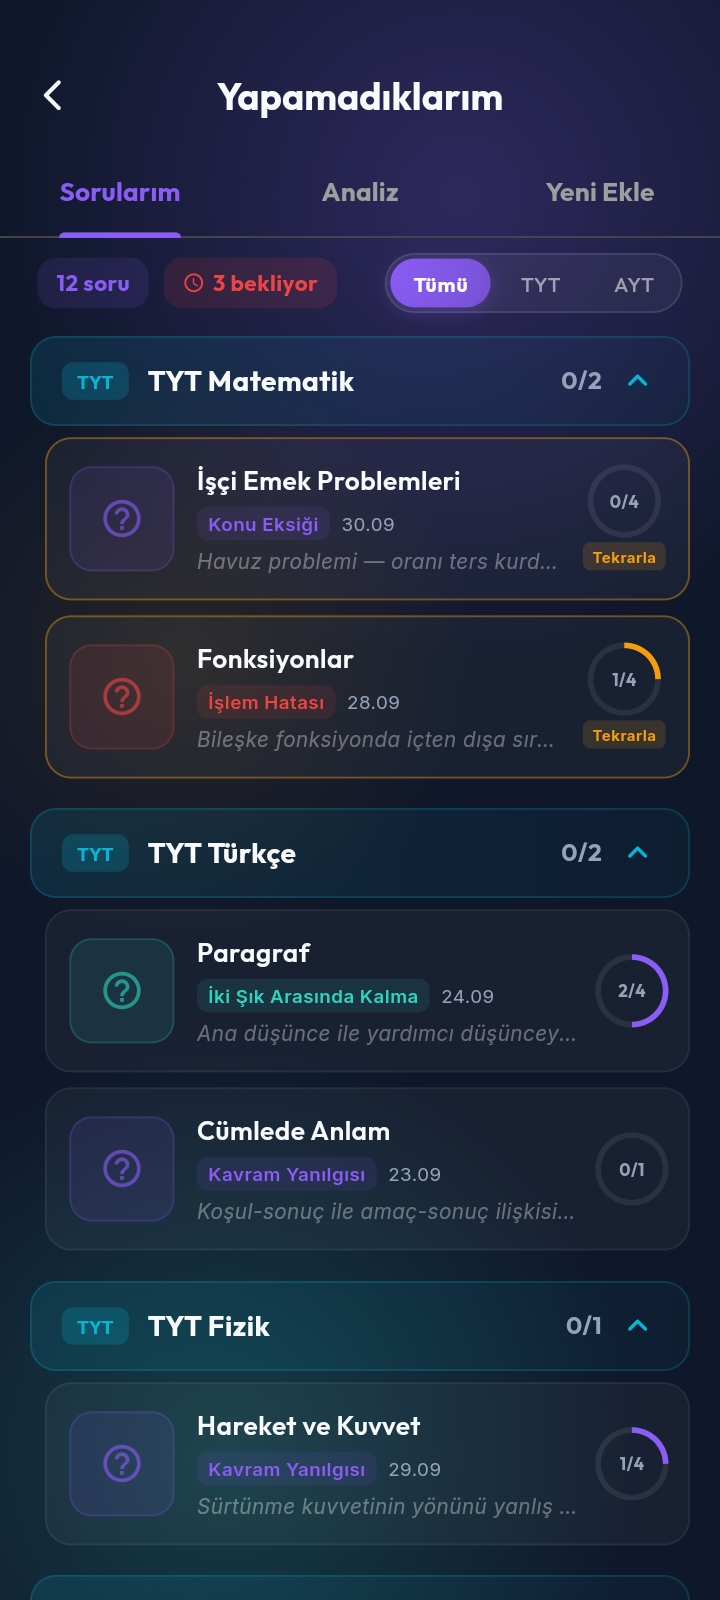
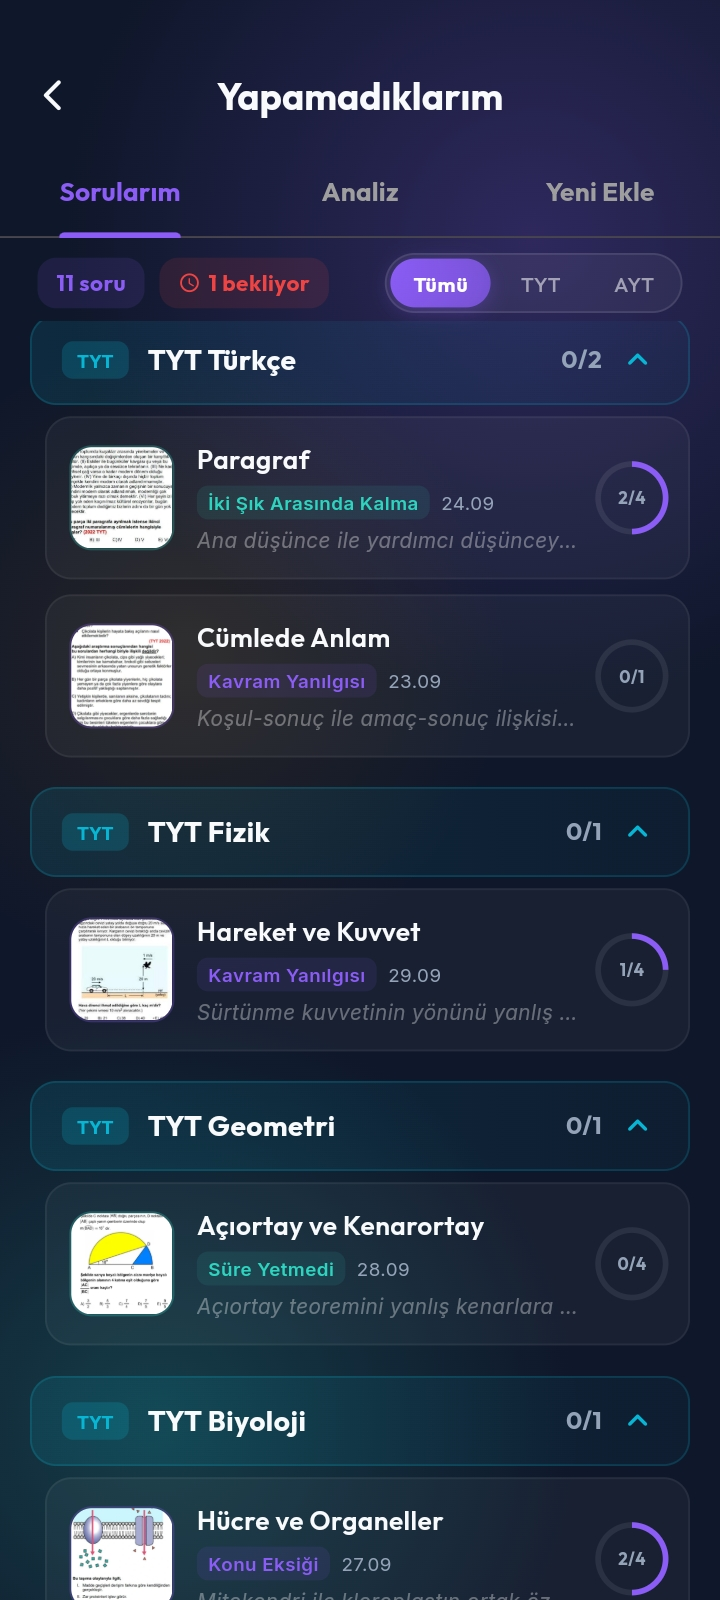
Her yanlışın bir dersi var: soru fotoğraflı Yapamadıklarım ekranı; kart fotoğrafları kapatmıyor

diff --git a/src/data/screens.ts b/src/data/screens.ts
@@ -31,7 +31,7 @@ export const screens = {
   'p-net-analizi': { alt: 'Performans Analizi: net ilerleme grafiği ve ders ders net analizi' },
   'p-ders-turkce': { alt: 'TYT Türkçe: ortalama, en yüksek ve son net, deneme grafiği' },
   'p-deneme-gecmisi': { alt: 'Deneme Geçmişi: 20 genel deneme, yayınlara göre TYT ve AYT netleri' },
-  'p-yap-liste': { alt: 'Yapamadıklarım: derslere göre sorular, hata sebepleri ve tekrar durumları' },
+  'p-yap-liste': { alt: 'Yapamadıklarım: derslere göre soruların fotoğrafları, hata sebepleri ve tekrar durumları' },
   'p-yap-analiz': { alt: 'Yapamadıklarım analizi: yüzde 37 dikkat, yüzde 45 bilgi, yüzde 16 strateji hatası ve en zayıf konular' },
   'p-yap-detay': { alt: 'Yapamadıklarım soru ayrıntısı: işlem hatası, koç önerisi ve tekrar ilerlemesi' },
   'p-hedef-detay': { alt: 'Hedef Detayı: Boğaziçi Üniversitesi Endüstri Mühendisliği, taban puan 534.828, tahmini sıralama 2.197' },
